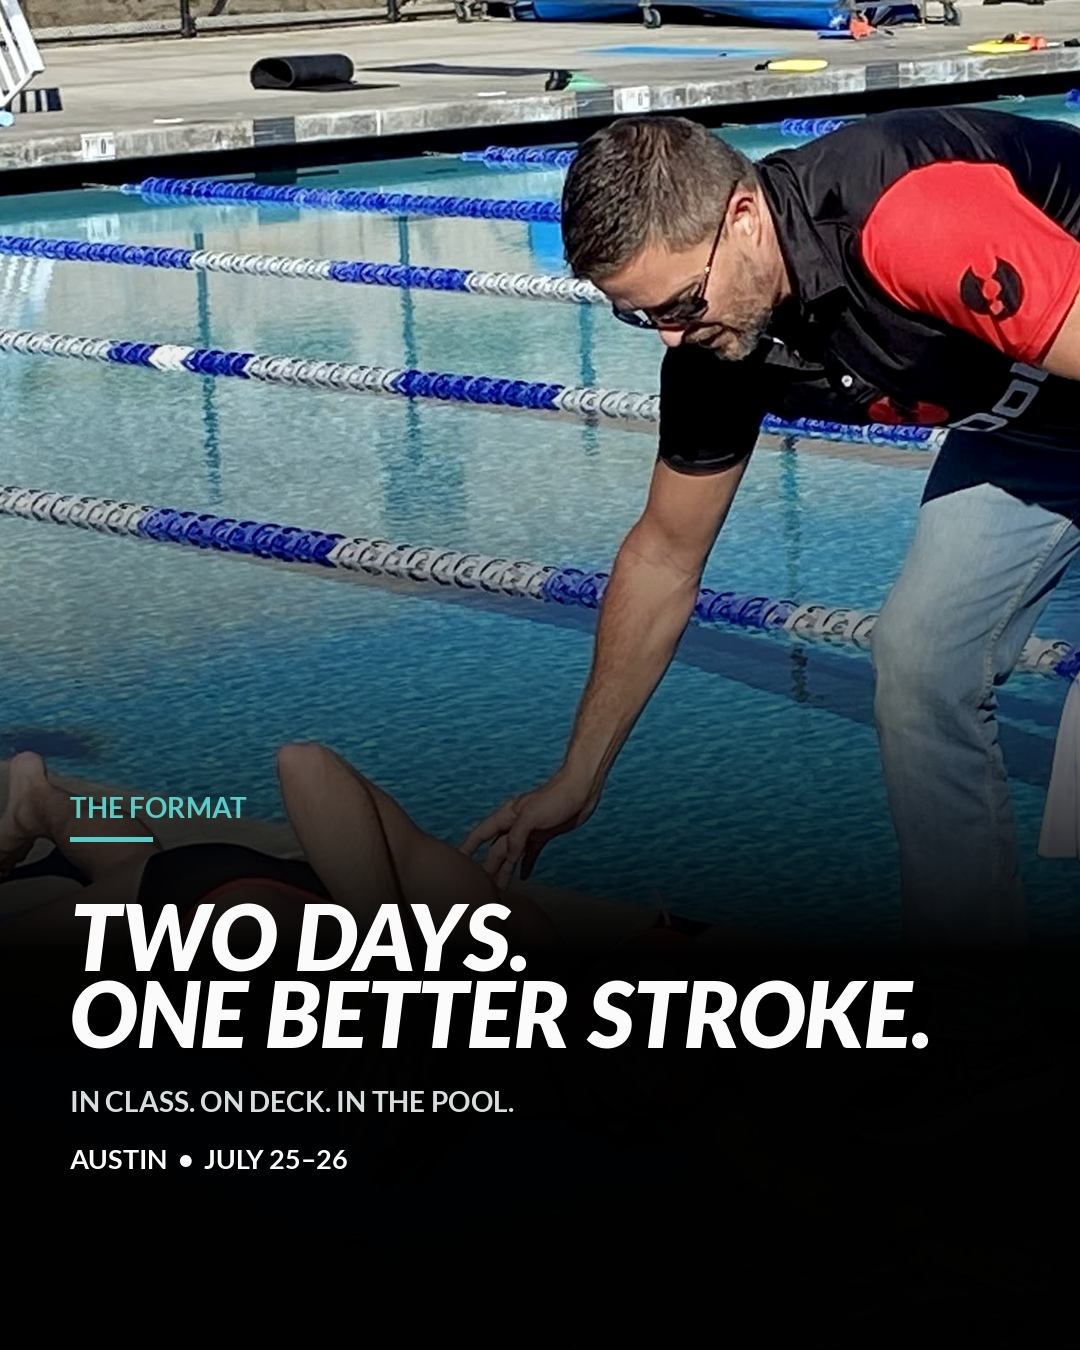
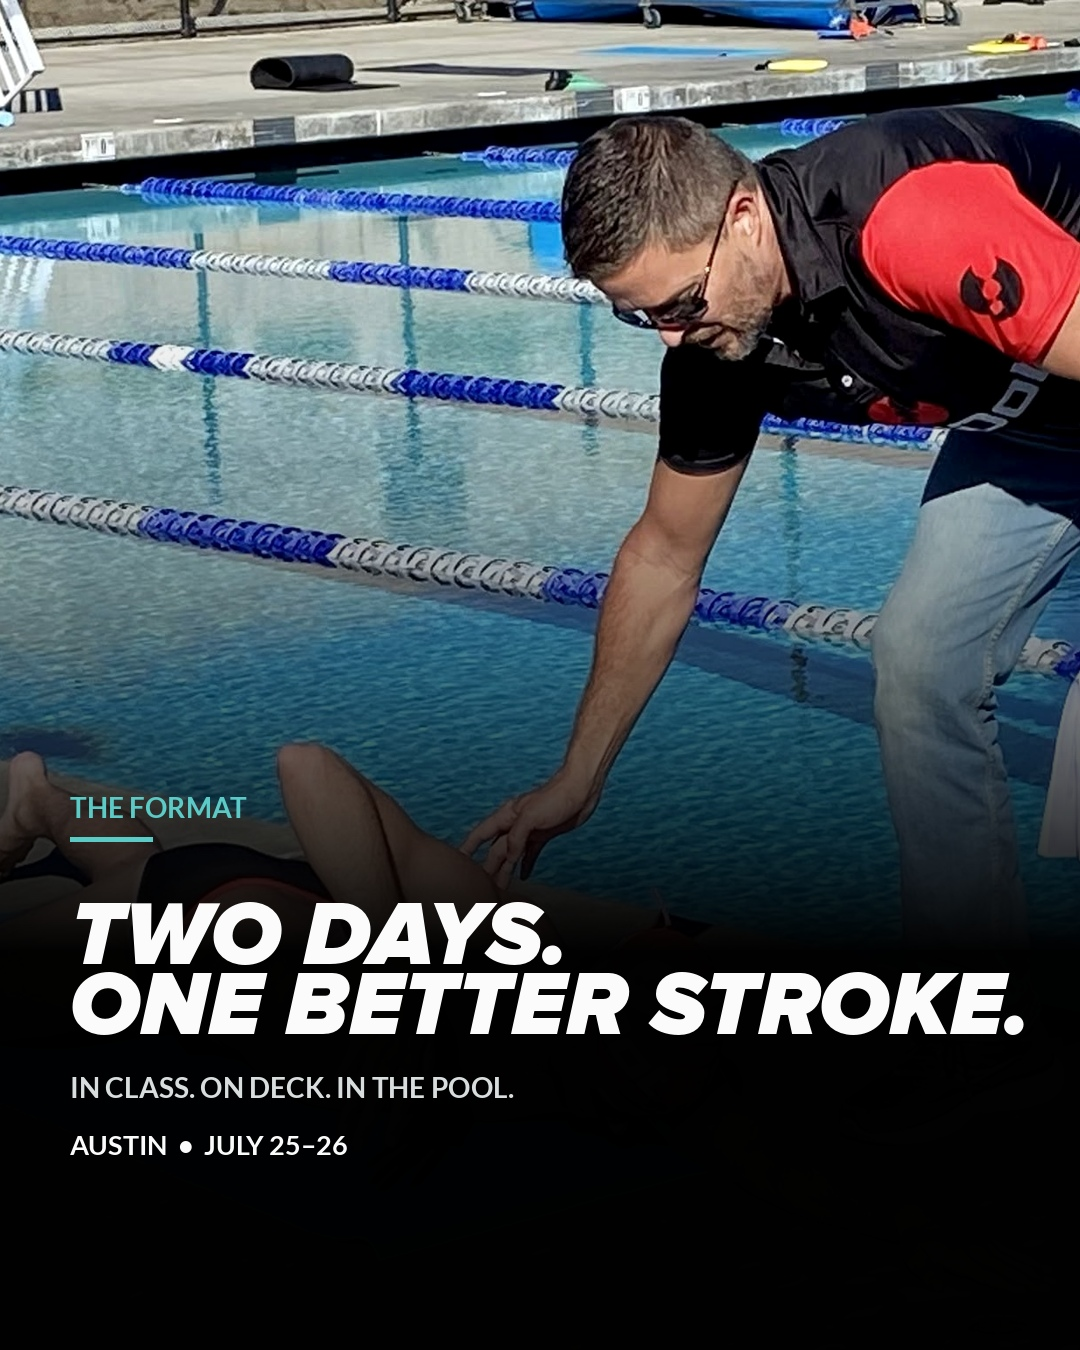
Match Austin headings to Proxima Nova Black Italic website treatment

Changed region(s): [[0.0611, 0.6533, 0.9472, 0.8711]]

diff --git a/austin-pool-school-review/index.html b/austin-pool-school-review/index.html
@@ -15,5 +15,5 @@ const posts=[
 ['08-detail-matters.jpg','VALUE','The details make the difference','Small technique changes can lead to meaningful progress. Get focused coaching and drills designed to help you apply it back in your own training.'],
 ['09-personal-feedback.jpg','VALUE','Real-time feedback','See it. Understand it. Practice it. Bring your swim questions to Austin and leave with practical tools for your next session.'],
 ['10-austin-register-now.jpg','EVENT PROMO','Austin Pool School: Register now','July 25–26, 2026 · Austin Aquatics and Sports Academy · $599\n\nYour next opportunity to break out of the dreaded swim plateau starts here. Register now.']
-];let i=0;const $=id=>document.getElementById(id);function render(){let p=posts[i];$('title').textContent=`Post ${i+1} of ${posts.length}`;$('graphic').src='./assets/'+p[0]+'?v=website-headlines-20260710';$('headline').textContent=p[2];$('caption').textContent=p[3];$('type').textContent=p[1];$('prev').disabled=i===0;$('next').disabled=i===posts.length-1;$('thumbs').innerHTML=posts.map((x,n)=>`<button class="thumb ${n===i?'active':''}" aria-label="View post ${n+1}" onclick="go(${n})"><img src="./assets/${x[0]}?v=website-headlines-20260710"></button>`).join('')};function go(n){i=n;render()}$('prev').onclick=()=>go(i-1);$('next').onclick=()=>go(i+1);document.addEventListener('keydown',e=>{if(e.key==='ArrowLeft'&&i)go(i-1);if(e.key==='ArrowRight'&&i<posts.length-1)go(i+1)});render();
+];let i=0;const $=id=>document.getElementById(id);function render(){let p=posts[i];$('title').textContent=`Post ${i+1} of ${posts.length}`;$('graphic').src='./assets/'+p[0]+'?v=proxima-black-20260710';$('headline').textContent=p[2];$('caption').textContent=p[3];$('type').textContent=p[1];$('prev').disabled=i===0;$('next').disabled=i===posts.length-1;$('thumbs').innerHTML=posts.map((x,n)=>`<button class="thumb ${n===i?'active':''}" aria-label="View post ${n+1}" onclick="go(${n})"><img src="./assets/${x[0]}?v=proxima-black-20260710"></button>`).join('')};function go(n){i=n;render()}$('prev').onclick=()=>go(i-1);$('next').onclick=()=>go(i+1);document.addEventListener('keydown',e=>{if(e.key==='ArrowLeft'&&i)go(i-1);if(e.key==='ArrowRight'&&i<posts.length-1)go(i+1)});render();
 </script></body></html>
